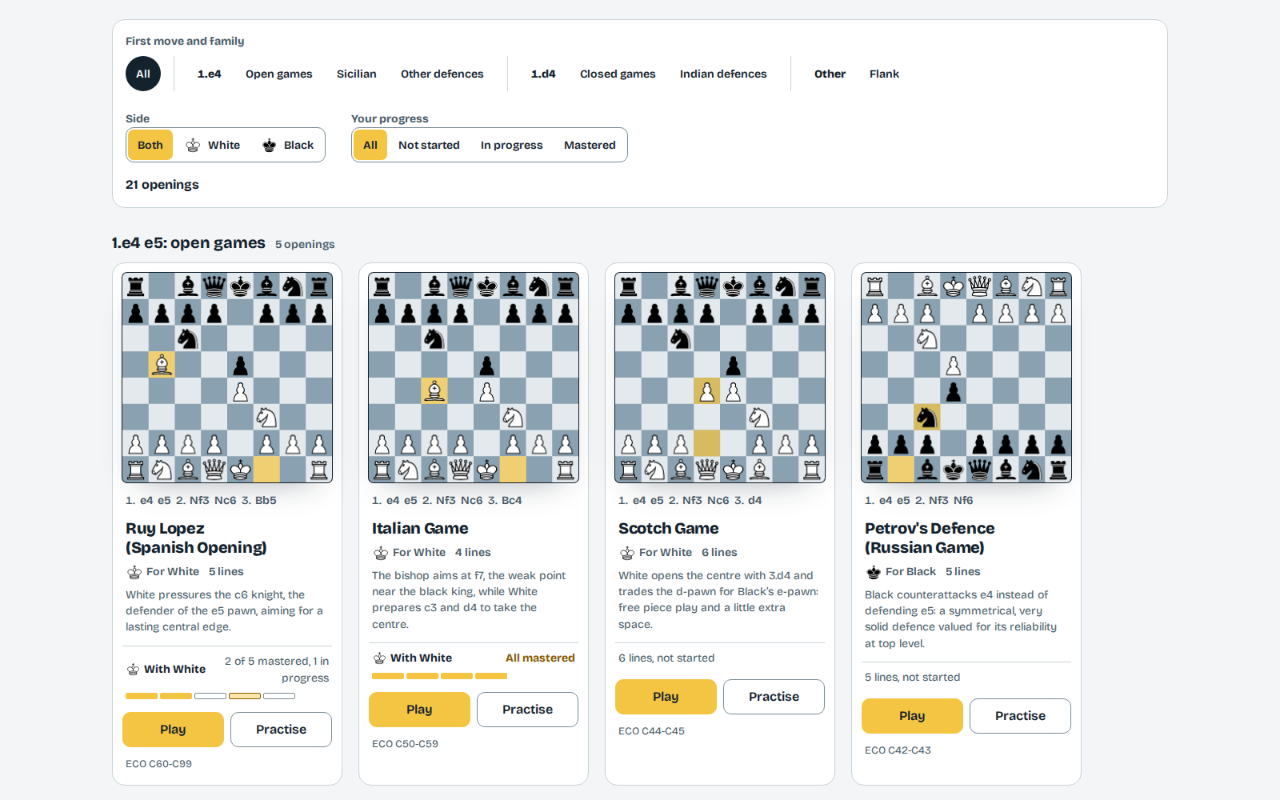
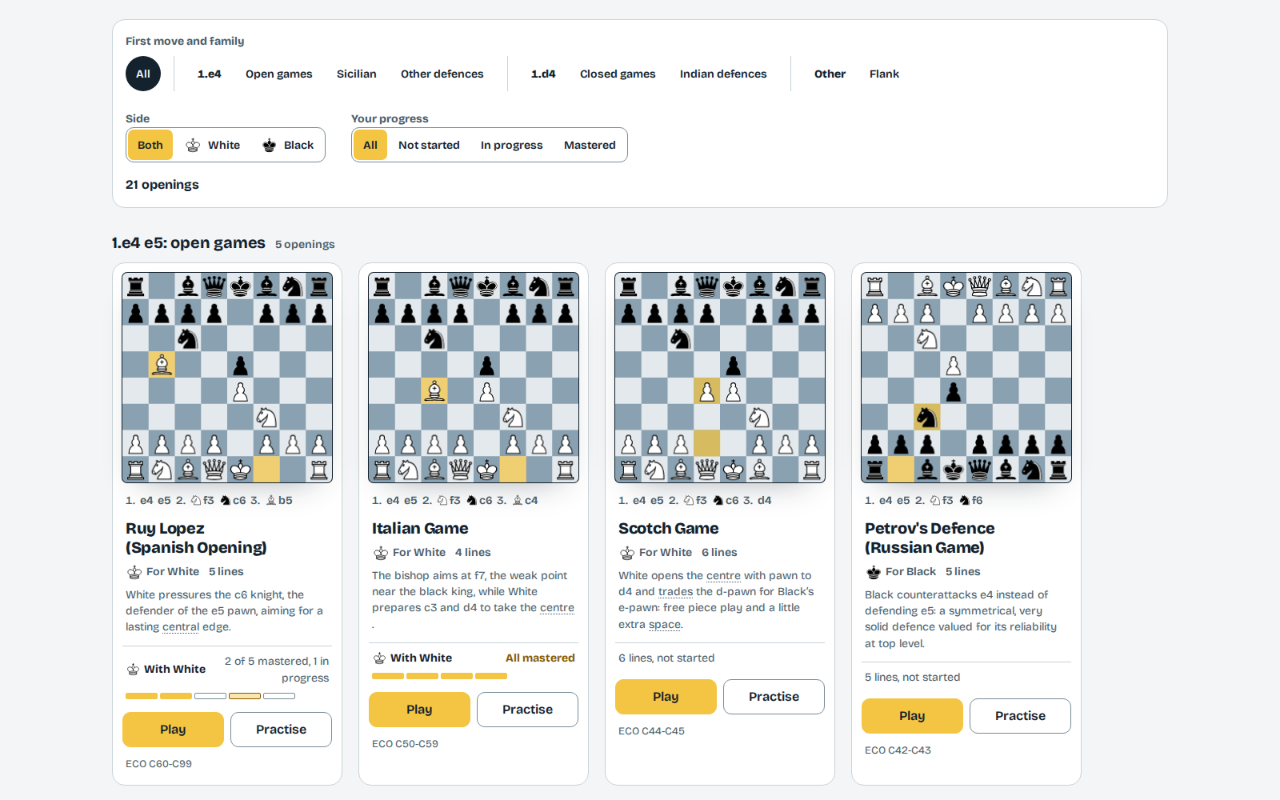
docs: describe Learn, the glossary, Practise more, words and the keyboard in the README
Claude-Session: https://claude.ai/code/session_01L8vqRnNpiTnKwuqWhscgpg

diff --git a/README.md b/README.md
@@ -2,9 +2,11 @@ _**Español** · [English](README.en.md)_
 
 # Cheesy
 
-**Aperturas, finales y táctica, en tu navegador.** Juega aperturas y finales
-contra el ordenador, encuentra la jugada en posiciones tácticas y analiza con
-motor. Es para quien quiere practicar ajedrez a su ritmo: no hay cuenta que
+**Aperturas, finales y táctica, en tu navegador.** Aprende a jugar desde cero
+con lecciones cortas, juega aperturas y finales contra el ordenador, encuentra la
+jugada en posiciones tácticas y analiza con motor. Todo en lenguaje llano: las
+jugadas se leen en palabras («caballo a f3») y, si lo prefieres, en notación.
+Es para quien quiere aprender y practicar ajedrez a su ritmo: no hay cuenta que
 crear, ni nada que instalar, ni anuncios, y tu progreso se queda en tu equipo.
 
 [![Abrir Cheesy](https://img.shields.io/badge/Abrir%20Cheesy-cheesy.alvarotc.com-f4c542?style=for-the-badge&labelColor=13222d)](https://cheesy.alvarotc.com)
@@ -15,9 +17,35 @@ crear, ni nada que instalar, ni anuncios, y tu progreso se queda en tu equipo.
 ![Licencia GPL-3.0](https://img.shields.io/badge/licencia-GPL--3.0-f4c542?style=flat-square&labelColor=13222d)
 [![CI](https://github.com/alvarotorresc/cheesy/actions/workflows/ci.yml/badge.svg)](https://github.com/alvarotorresc/cheesy/actions/workflows/ci.yml)
 
-![La página de inicio de Cheesy: el titular, un tablero grande con la Apertura Española tras 6.Te1, un panel con sus jugadas y el botón «Jugar esta apertura», y debajo el comienzo de las cuatro secciones](.github/readme/home-es.png)
+![La página de inicio de Cheesy: el menú con Aprender, el titular, un tablero grande con la Apertura Española tras la sexta jugada de las blancas, un panel con sus jugadas y el botón «Jugar esta apertura», la franja «¿Empiezas desde cero?» y debajo el comienzo de las secciones](.github/readme/home-es.png)
 
 ## Qué puedes hacer
+
+<!-- TODO(v0.2.0): cifras de Aprender cuando se fusione la PR del avanzado. Hoy hay 30 lecciones
+(12 de principiante, 12 de medio y 6 de avanzado), 78 términos en el glosario y 550 problemas
+(50 por cada una de 11 lecciones). Con 12 lecciones de avanzado serían 36 lecciones; el glosario
+y los problemas pueden crecer con ella. -->
+
+- **Aprender ajedrez desde cero, por niveles.** Principiante, medio y avanzado:
+  desde cómo se mueve cada pieza hasta la táctica, los finales que hay que saber
+  y la estrategia. Cada lección avanza por pasos con un tablero y texto en
+  lenguaje llano, y mezcla explicaciones con ejercicios: encontrar la jugada,
+  elegir entre opciones o jugar la posición hasta el final. Las palabras de
+  ajedrez se abren en una burbuja con su definición, y el glosario las reúne
+  todas por familias, cada una con su tablero de ejemplo. Se recuerdan las
+  lecciones que completas, y la página te lleva a la siguiente.
+
+  ![La página Aprender: el botón «Continuar: La enfilada» y cinco tarjetas, los niveles Principiante, Medio y Avanzado con su número de lecciones, el Glosario y Practica más](.github/readme/learn-es.png)
+
+  ![El primer paso de la lección «La horquilla»: un tablero con un caballo blanco y dos flechas hacia el rey y la torre negros, el texto que lo explica en palabras y abierta la burbuja del término «Jaque», con su definición y un minitablero](.github/readme/lesson-es.png)
+
+- **Practicar más con problemas reales de Lichess.** Cada lección de táctica y
+  de finales tiene sus problemas, sacados de la
+  [base abierta de problemas de Lichess](https://database.lichess.org) (CC0), de
+  diez en diez y del más fácil al más difícil. Se recuerda cuántos resuelves a la
+  primera.
+
+  ![La lista de Practica más en el tema oscuro: problemas de Lichess agrupados por lección, con tres lecciones empezadas y su recuento de problemas resueltos a la primera](.github/readme/puzzles-es.png)
 
 - **Aprender aperturas jugándolas y practicándolas.** En Jugar, el rival
   responde con las líneas que cubrimos, más a menudo la principal, o es
@@ -27,7 +55,7 @@ crear, ni nada que instalar, ni anuncios, y tu progreso se queda en tu equipo.
 
   ![El catálogo de aperturas: los filtros por primera jugada, familia, bando y progreso, y la fila «1.e4 e5: juegos abiertos» con cuatro aperturas, cada una con su minitablero, su progreso y los botones «Jugar» y «Practicar»](.github/readme/openings-es.png)
 
-  ![Una partida de la Apertura Española con blancas, en el tema oscuro: el tablero tras 5…Ae7, el aviso «Te toca mover», el panel de teoría con la Variante Cerrada y la nota «Estás dentro de nuestras líneas», y la lista de jugadas](.github/readme/play-es.png)
+  ![Una partida de la Apertura Española con blancas, en el tema oscuro: el tablero tras la tercera jugada de las negras, el aviso «Te toca mover», el panel de teoría con la Defensa Morphy explicada en palabras y la nota «Estás dentro de nuestras líneas», y la lista de jugadas](.github/readme/play-es.png)
 
 - **Convertir y aguantar finales contra un rival perfecto.** El rival juega
   con la tablebase de Lichess, y un panel te dice el veredicto de la posición.
@@ -45,6 +73,11 @@ crear, ni nada que instalar, ni anuncios, y tu progreso se queda en tu equipo.
   llevan una posición, sus jugadas o el árbol entero con sus variaciones.
 
   ![El tablero de análisis en el tema oscuro con una partida de la Apertura Española: el motor encendido a profundidad 20, la barra de evaluación, las tres mejores líneas, una flecha verde con la mejor jugada y la lista de jugadas con una variación plegada](.github/readme/analysis-es.png)
+
+- **Leer las jugadas como prefieras y jugar con el teclado.** Un conmutador en
+  la cabecera cambia entre palabras y notación en toda la app. El tablero se
+  maneja sin ratón: las flechas mueven un cursor por las casillas e Intro elige
+  la pieza y la juega.
 
 ## Privacidad
 
@@ -121,11 +154,19 @@ formateo por los archivos preparados.
 | `/positions`             | La galería de posiciones tácticas, con filtros y las que has resuelto      |
 | `/positions/:id`         | Encuentra la mejor jugada en una posición                                  |
 | `/analysis`              | Un tablero libre para explorar cualquier idea                              |
+| `/learn`                 | Aprender: los niveles, el glosario, «Practica más» y tu siguiente lección  |
+| `/learn/:level`          | Las lecciones de un nivel, con las completadas marcadas                    |
+| `/learn/:level/:lesson`  | Una lección, paso a paso                                                   |
+| `/learn/glossary`        | El glosario, con buscador y filtros por nivel y familia                    |
+| `/learn/puzzles`         | «Practica más»: los problemas de Lichess de cada lección                   |
+| `/learn/puzzles/:lesson` | Una tanda de diez problemas de esa lección                                 |
 | `/acerca`                | Acerca de: qué se guarda, qué sale del navegador, créditos y código fuente |
 
 Detalles que no se ven en la tabla:
 
-- La dirección antigua `/openings/:id/drill` redirige a la práctica.
+- La dirección antigua `/openings/:id/drill` redirige a la práctica, y
+  `/glossary` lleva al glosario dentro de Aprender.
+- Los filtros del glosario van en la dirección (`?group=tactics&level=advanced&q=…`).
 - En Finales, el rival recurre a Stockfish cuando la tablebase no responde.
 - Cada posición lleva un número en su dirección (`/positions/1`), de menos a más
   jugadas.
@@ -146,7 +187,8 @@ src/app/
   shared/     componentes de presentación: tablero, minitablero, lista de jugadas,
               iconos, aviso
   features/   una carpeta por sección, cargadas de forma diferida
-content/      fuentes y comprobaciones de las aperturas, los finales y las posiciones
+content/      fuentes y comprobaciones de las aperturas, los finales, las posiciones,
+              las lecciones, el glosario y los problemas
 ```
 
 El contenido es fijo y se valida antes de llegar a la app: mira

diff --git a/README.en.md b/README.en.md
@@ -2,9 +2,11 @@ _[Español](README.md) · **English**_
 
 # Cheesy
 
-**Openings, endgames and tactics, in your browser.** Play openings and endgames
-against the computer, find the move in tactical positions and analyse with an
-engine. It is for anyone who wants to practise chess at their own pace: there is
+**Openings, endgames and tactics, in your browser.** Learn to play from scratch
+with short lessons, play openings and endgames against the computer, find the
+move in tactical positions and analyse with an engine. All in plain language:
+moves read as words (“knight to f3”) and, if you prefer, in notation. It is for
+anyone who wants to learn and practise chess at their own pace: there is
 no account to create, nothing to install and no ads, and your progress stays on
 your device.
 
@@ -16,9 +18,34 @@ your device.
 ![Licence GPL-3.0](https://img.shields.io/badge/licence-GPL--3.0-f4c542?style=flat-square&labelColor=13222d)
 [![CI](https://github.com/alvarotorresc/cheesy/actions/workflows/ci.yml/badge.svg)](https://github.com/alvarotorresc/cheesy/actions/workflows/ci.yml)
 
-![The Cheesy home page: the headline, a large board with the Ruy Lopez after 6.Re1, a panel with its moves and the “Play this opening” button, and below the top of the four sections](.github/readme/home-en.png)
+![The Cheesy home page: the menu with Learn, the headline, a large board with the Ruy Lopez after White’s sixth move, a panel with its moves and the “Play this opening” button, the band “Starting from scratch?” and below the top of the sections](.github/readme/home-en.png)
 
 ## What you can do
+
+<!-- TODO(v0.2.0): figures of Learn once the advanced PR is merged. Today there are 30 lessons
+(12 beginner, 12 intermediate and 6 advanced), 78 glossary terms and 550 puzzles (50 for each of
+11 lessons). With 12 advanced lessons that is 36 lessons; the glossary and the puzzles may grow
+with it. -->
+
+- **Learn chess from scratch, by level.** Beginner, intermediate and advanced:
+  from how each piece moves to tactics, the endgames you must know and strategy.
+  Each lesson goes step by step with a board and plain-language text, and mixes
+  explanations with exercises: find the move, pick between options or play the
+  position out. Chess words open in a bubble with their definition, and the
+  glossary gathers them all by family, each with its example board. The lessons
+  you complete are remembered, and the page takes you to the next one.
+
+  ![The Learn page: the “Continue: The skewer” button and five cards, the Beginner, Intermediate and Advanced levels with their number of lessons, the Glossary and Practise more](.github/readme/learn-en.png)
+
+  ![The first step of the lesson “The fork”: a board with a white knight and two arrows to the black king and rook, the text that explains it in words and the bubble of the term “Check” open, with its definition and a mini board](.github/readme/lesson-en.png)
+
+- **Practise more with real Lichess puzzles.** Each tactics and endgame lesson
+  has its puzzles, taken from the
+  [Lichess open puzzle database](https://database.lichess.org) (CC0), ten at a
+  time and from easiest to hardest. How many you solve on the first try is
+  remembered.
+
+  ![The Practise more list in the dark theme: Lichess puzzles grouped by lesson, with three lessons started and their count of puzzles solved on the first try](.github/readme/puzzles-en.png)
 
 - **Learn openings by playing and practising them.** In Play, the rival answers
   from the lines we cover, most often the main one, or it is Stockfish at five
@@ -28,7 +55,7 @@ your device.
 
   ![The opening catalogue: the filters by first move, family, side and progress, and the row “1.e4 e5: open games” with four openings, each with its mini board, its progress and the “Play” and “Practise” buttons](.github/readme/openings-en.png)
 
-  ![A game of the Ruy Lopez as White, in the dark theme: the board after 5…Be7, the notice “Your move”, the theory panel with the Closed Variation and the note “You are in our lines”, and the move list](.github/readme/play-en.png)
+  ![A game of the Ruy Lopez as White, in the dark theme: the board after Black’s third move, the notice “Your move”, the theory panel with the Morphy Defence explained in words and the note “You are in our lines”, and the move list](.github/readme/play-en.png)
 
 - **Convert and hold endgames against a perfect rival.** The rival plays from
   the Lichess tablebase, and a panel shows the verdict on the position. In the
@@ -46,6 +73,11 @@ your device.
   its moves or the whole tree with its variations.
 
   ![The analysis board in the dark theme with a Ruy Lopez game: the engine on at depth 20, the evaluation bar, the three best lines, a green arrow on the best move and the move list with a folded variation](.github/readme/analysis-en.png)
+
+- **Read moves your way and play with the keyboard.** A switch in the header
+  changes between words and notation across the app. The board works without a
+  mouse: the arrow keys move a cursor over the squares and Enter picks the piece
+  and plays it.
 
 ## Privacy
 
@@ -122,11 +154,19 @@ files.
 | `/positions`             | The gallery of tactical positions, with filters and the ones you solved |
 | `/positions/:id`         | Find the best move in one position                                      |
 | `/analysis`              | A free board to explore any idea                                        |
+| `/learn`                 | Learn: the levels, the glossary, Practise more and your next lesson     |
+| `/learn/:level`          | The lessons of a level, with the completed ones marked                  |
+| `/learn/:level/:lesson`  | A lesson, step by step                                                  |
+| `/learn/glossary`        | The glossary, with search and filters by level and family               |
+| `/learn/puzzles`         | Practise more: the Lichess puzzles of each lesson                       |
+| `/learn/puzzles/:lesson` | A batch of ten puzzles of that lesson                                   |
 | `/acerca`                | About: what is saved, what leaves your browser, credits and source code |
 
 Details the table does not show:
 
-- The old `/openings/:id/drill` address redirects to the practice.
+- The old `/openings/:id/drill` address redirects to the practice, and
+  `/glossary` leads to the glossary inside Learn.
+- The filters of the glossary go in the address (`?group=tactics&level=advanced&q=…`).
 - In Endgames, the rival falls back on Stockfish when the tablebase does not
   answer.
 - Each position has a number in its address (`/positions/1`), from fewest to
@@ -147,7 +187,8 @@ src/app/
   layout/     the parts around every page: footer and the padding of each kind of route
   shared/     presentational components: board, mini board, move list, icons, toast
   features/   one folder per section, loaded lazily
-content/      sources and checks of the openings, endgames and positions
+content/      sources and checks of the openings, endgames, positions, lessons,
+              glossary and puzzles
 ```
 
 The content is fixed and validated before it reaches the app: see
